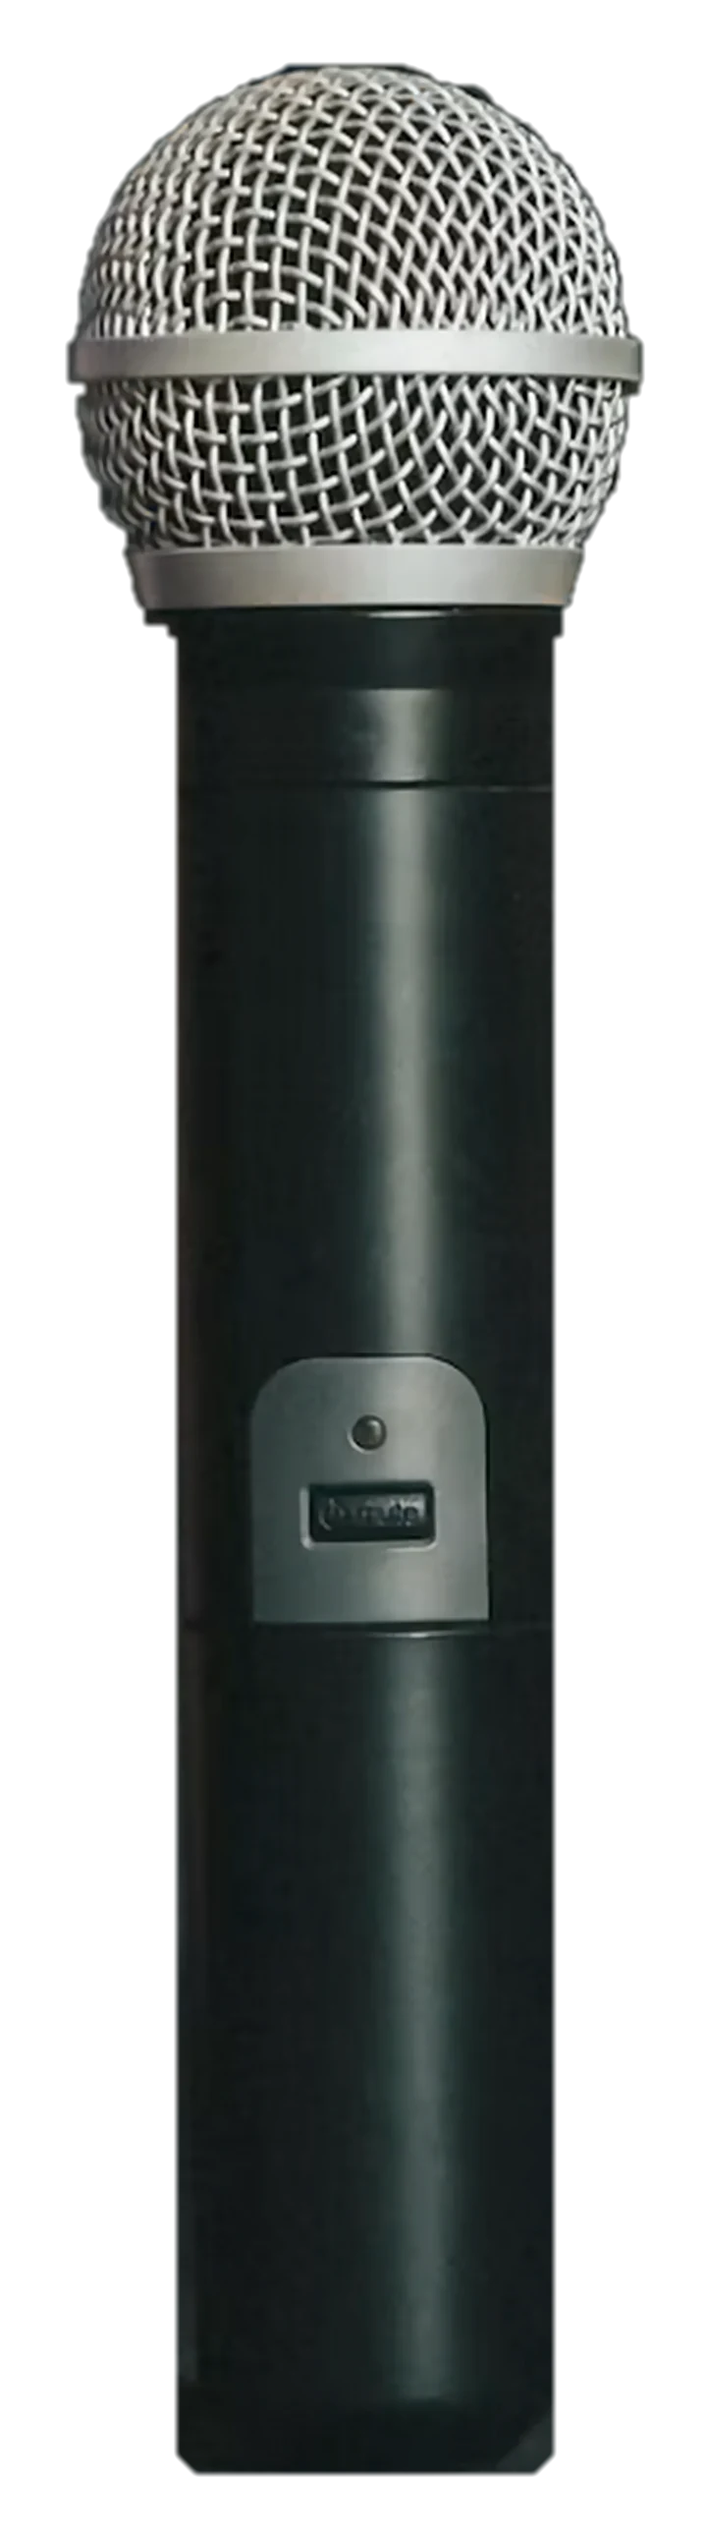
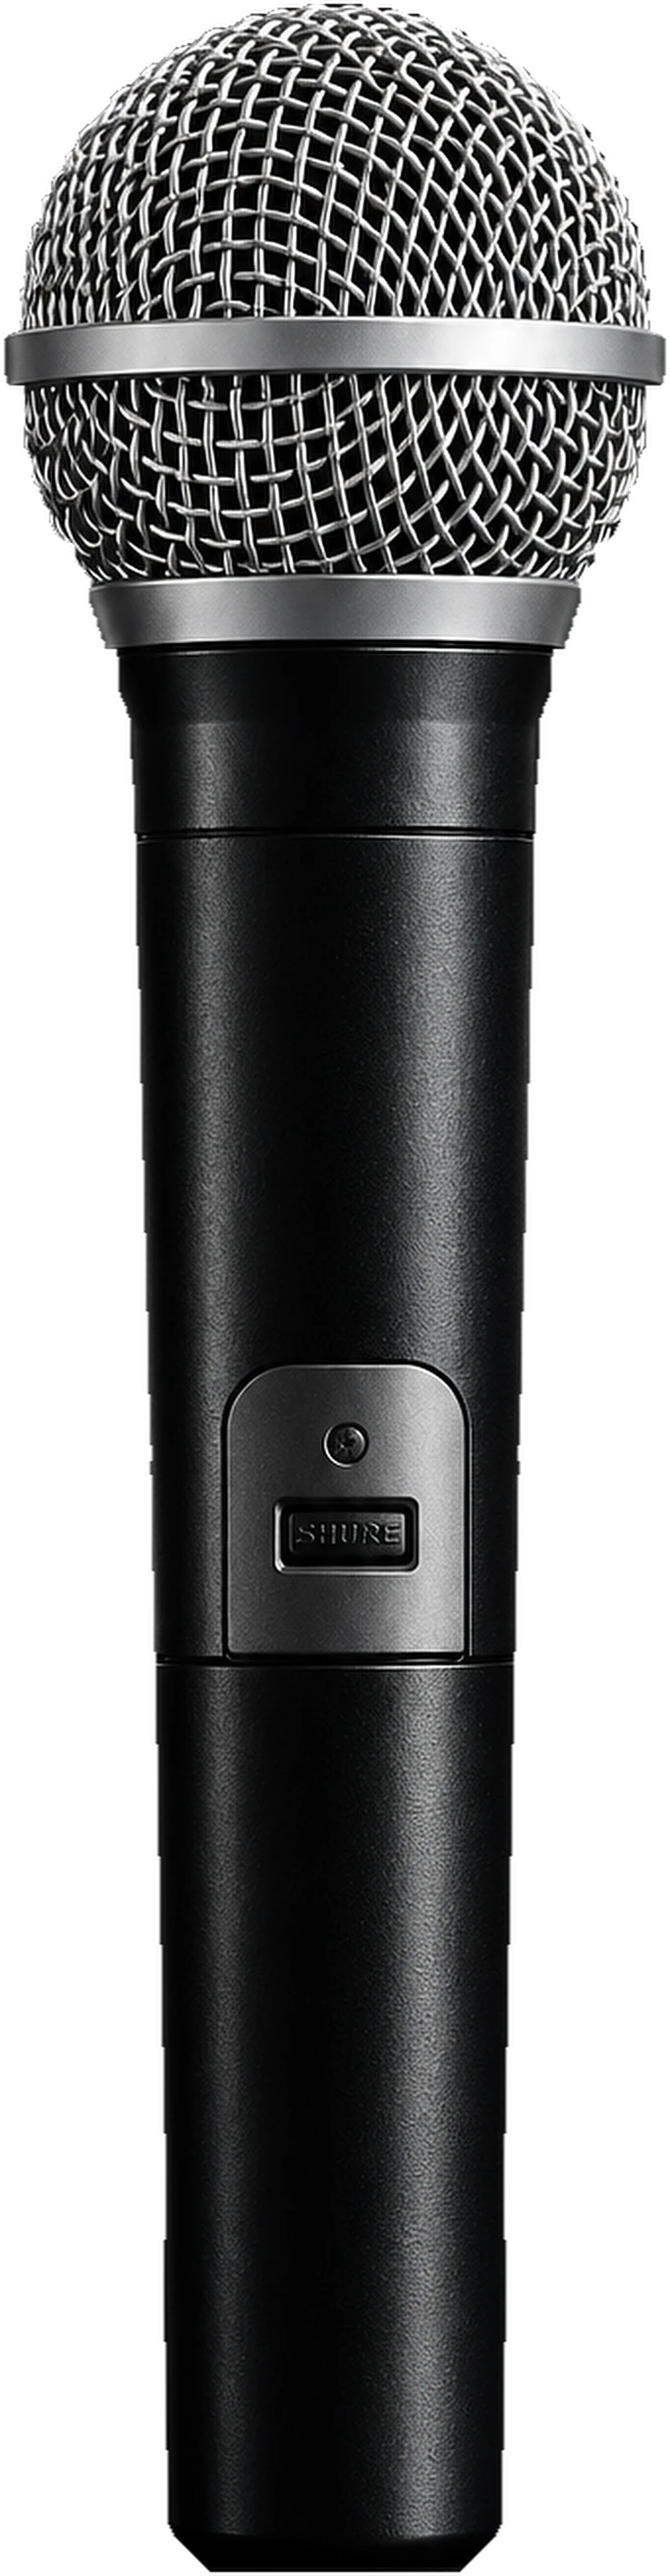
«Сцена»: новый качественный микрофон
Целый микрофон заменён на новое фото (вырезан по симметричному контуру,
682×2620 для Retina); пропорции блока микрофона обновлены.

Claude-Session: https://claude.ai/code/session_01LMJxDTUd4iL7HotSrqJMeU

diff --git a/src/components/stage/stage-css.ts b/src/components/stage/stage-css.ts
@@ -15,9 +15,9 @@ html.stage-lock body{touch-action:none;scrollbar-width:none}
 .stage-root ol{list-style:none;margin:0;padding:0}
 .stage{position:fixed;inset:0;overflow:hidden;background:var(--bg)}
 .stage .halo{position:absolute;left:50%;top:46%;width:min(80vh,90vw);aspect-ratio:1;transform:translate(-50%,-50%);background:radial-gradient(closest-side,rgba(255,255,255,.07),rgba(255,255,255,.02) 55%,transparent);pointer-events:none}
-.stage .micbox{position:absolute;left:50%;top:50%;height:80vh;aspect-ratio:240/860;z-index:3}
+.stage .micbox{position:absolute;left:50%;top:50%;height:80vh;aspect-ratio:341/1310;z-index:3}
 .stage .asm{position:absolute;inset:0;width:100%;height:100%;filter:drop-shadow(0 0 1px rgba(255,255,255,.28)) drop-shadow(0 0 24px rgba(255,255,255,.05))}
-.stage .exp{position:absolute;left:50%;top:50%;height:115.8%;aspect-ratio:215/970;transform:translate(-50%,-50%)}
+.stage .exp{position:absolute;left:50%;top:50%;height:116.1%;aspect-ratio:215/970;transform:translate(-50%,-50%)}
 .stage .part{position:absolute;inset:0;will-change:transform,opacity;opacity:0}
 .stage .part img{width:100%;height:100%;display:block;filter:drop-shadow(0 0 1px rgba(255,255,255,.25))}
 .stage .mk{position:absolute;width:1px;height:1px}

diff --git a/README.md b/README.md
@@ -203,7 +203,7 @@ node -e "console.log(require('crypto').randomBytes(32).toString('hex'))"
 - **фото площадок** — по одному на формат (свадьба, конференция, корпоратив, частное, официальное). Фото уменьшается в браузере до 1920 px и хранится в базе (таблица `VenuePhoto`), потому что файлы на сервере Railway стираются при обновлении. Без фото показывается рисунок;
 - **цифры** для блока «Один вечер в цифрах» — 3 числа и подписи на трёх языках.
 
-«Сцена» меняет только главную страницу. Код: `src/components/stage/`. Картинки микрофона: `public/images/stage/mic.webp` и `exp.webp` — чтобы заменить на более качественные, положите файлы с теми же пропорциями (240×860 и 215×970) и теми же именами.
+«Сцена» меняет только главную страницу. Код: `src/components/stage/`. Картинки микрофона: `public/images/stage/mic.webp` и `exp.webp` — чтобы заменить на более качественные, положите файлы с теми же именами; если меняются пропорции целого микрофона, поправьте `aspect-ratio` у `.micbox` в `src/components/stage/stage-css.ts` (сейчас 341/1310).
 
 ## Корзина заявок
 
